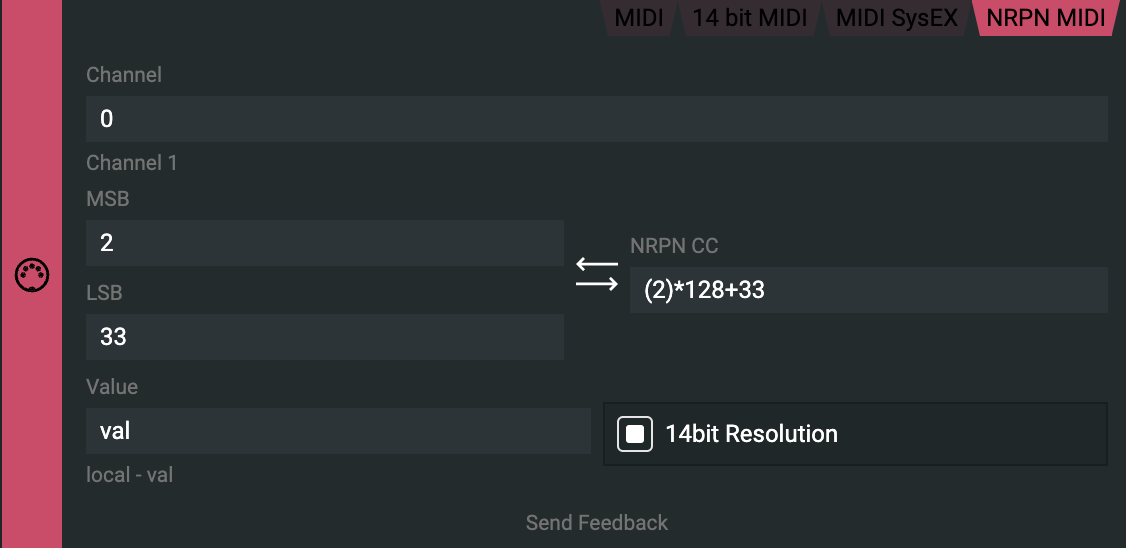
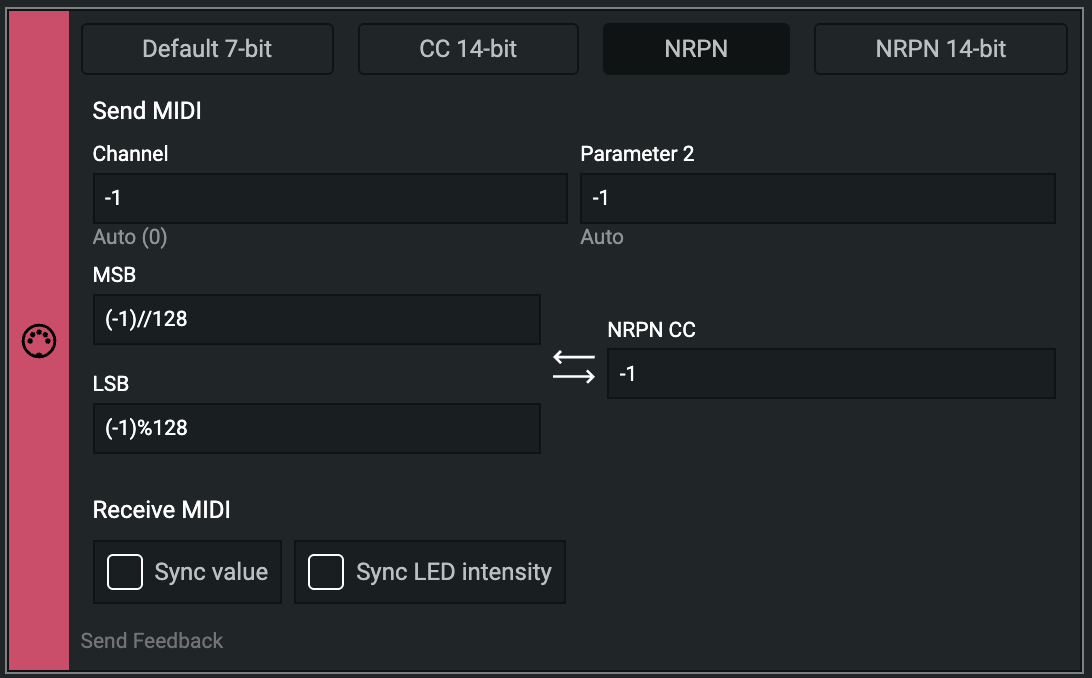
midi update

Changed region(s): [[0.0, 0.0, 0.9963, 1.0], [0.5293, 0.3412, 0.5916, 0.3723]]

diff --git a/docs/wiki/actions/midi/midirx.md b/docs/wiki/actions/midi/midirx.md
@@ -1,0 +1,60 @@
+---
+slug: midi-rx
+title: MIDI RX (receiving)
+tags: [Action Block, MIDI]
+description: "This Action Block will send out an NRPN MIDI message to the host on an event trigger. NRPN allows precise control over devices via MIDI."
+---
+
+import ImageLightbox from '@site/src/general-layout-components/ImageLightbox';
+import nrpnBlock from './img/receive.png'
+import element14Bit from './img/element_14bit.png'
+import rx from './img/rx.png'
+import relative from './img/relative.png'
+import intensity from './img/intensity.png'
+import Tabs from '@theme/Tabs';
+import TabItem from '@theme/TabItem';
+
+---
+
+
+
+<Tabs queryString="tab">
+<TabItem value="About NRPN MIDI" label="About NRPN MIDI" default>
+
+## Description
+**MIDI RX (MIDI Receive)** allows your controller to react to incoming MIDI messages from software or hardware. It can update LEDs and control elements in real time, keeping your controller synchronized with your setup.
+
+### Parameters
+
+
+The MIDI Block includes an LED and element value sync feature. If your DAW or hardware sends back the same MIDI message that the element transmits, the controller automatically keeps the LED state and element value synchronized.
+
+<ImageLightbox imageSrc={nrpnBlock} style={{width:500+'px'}} citation={'MIDI block receive checkbox'}/>
+
+### Tips for Using MIDI Sync
+
+* **Absolute Mode**: Sync both the element value and LED intensity.
+* **Relative Mode**: Sync the LED intensity and disable **Auto Intensity Update** in Simple Color.
+* **Button (Toggle) Mode**: Usually, only LED intensity sync is required.
+* **Button (Momentary) Mode**: Sync both the element value and LED intensity, and disable **Auto Intensity Update** in Simple Color.
+
+**Relative Mode Example:**
+<ImageLightbox imageSrc={relative} style={{width:300+'px'}} citation={'Encoder mode: Relative.'}/>
+<ImageLightbox imageSrc={intensity} style={{width:300+'px'}} citation={'Simple Color block: turn off auto intensity.'}/>
+<ImageLightbox imageSrc={rx} style={{width:300+'px'}} citation={'Receve MIDI: Sync LED intensity'}/>
+
+
+
+
+
+</TabItem>
+<TabItem value="Reference Manual Entry" label="Reference Manual Entry">
+
+self:midirx_register(-1, ch, command, param1, { value_sync = true/false, led_sync = true/false }, 0)
+-- value_sync: enables value synchronization
+-- led_sync: enables LED synchronization  
+  
+
+
+</TabItem>
+</Tabs>

diff --git a/docs/wiki/actions/midi/midi14.md b/docs/wiki/actions/midi/midi14.md
@@ -8,6 +8,7 @@ description: "This Action Block will send out a MIDI message to the host on an E
 import ImageLightbox from '@site/src/general-layout-components/ImageLightbox';
 import Tabs from '@theme/Tabs';
 import TabItem from '@theme/TabItem';
+import element14Bit from './img/element_14bit.png'
 
 ---
 
@@ -16,10 +17,15 @@ import TabItem from '@theme/TabItem';
 
 ### 14 bit MIDI - High resolution MIDI message format.
 
-To use this feature, **you must change the control element's resolution and maximum possible value**.
-This can be done by dropping a Potmeter Mode action block under the Setup event.
+Please note, as the least significant bit (LSB) and most significant bit (MSB) calculations happen in the background with a CC offset of 32, the second parameter CC number can't be larger than 95.
 
-Due to the noisy nature of high resolution signal reads from control elements, we recommend to stay below 11-bit resolution.
+![14bit midi](../../img/midi_action_14bit.png)
+
+To use this feature, **you must change the control element's resolution and maximum value (16383)**.
+
+<ImageLightbox imageSrc={element14Bit} style={{width:600+'px'}} citation={'On System Event Element settings changed max Value to 14bit and Resolution to 10bit'}/>
+
+Potmeter element: Due to the noisy nature of high resolution signal reads from control elements, we recommend to stay below 11-bit resolution.
 
 - 7-bit resolution (base MIDI): 2^7 = 128
 - 8-bit resolution: 2^8 = 256
@@ -27,10 +33,7 @@ Due to the noisy nature of high resolution signal reads from control elements, w
 - 10-bit resolution: 2^10 = 1024
 - 11-bit resolution: 2^11 = 2048
 - 12-bit resolution: 2^12 = 4096
-
-Please note, as the least significant bit (LSB) and most significant bit (MSB) calculations happen in the background with a CC offset of 32, the second parameter CC number can't be larger than 95.
-
-![14bit midi](../../img/midi_action_14bit.png)
+  
 
   </TabItem>
   <TabItem value="Reference Manual Entry" label="Reference Manual Entry">

diff --git a/docs/wiki/actions/midi/midi.md b/docs/wiki/actions/midi/midi.md
@@ -25,24 +25,24 @@ value range: 0-15
 This is translated in your DAW as channels 1-16.
 2. Command 
 value range: 128-255 
-Most common command messages are: 
--- 192 - program change 
---- 176 - control change 
---- 144 - note-on 
---- 128 - note-off 
+Most common command messages are:  
+- 192 - program change   
+- 176 - control change  
+- 144 - note-on  
+- 128 - note-off  
 The control change command is often used by audio libraries and VST plugins. When the command parameter is set to control change, the Parameter 1 field can be used to set common Control Change (CC) values, like 1 for modulation, 7 for volume and 11 for expression.
 
 3. Parameter 1 
 value range: 0-127 
 Depending on the Command field, values here represent Note (Pitch) or Control Change (CC) messages. 
---- Command = 176, CC values 
---- Command = 144 or 128, Note values
+- Command = 176, CC values   
+- Command = 144 or 128, Note values  
 
 4. Parameter 2
 value range: 0-127 
 Depending on the Command field, values here represent Velocity or Control Value (CV) values. 
---- Command = 176, CV values
---- Command = 144 or 128, Velocity values
+- Command = 176, CV values  
+- Command = 144 or 128, Velocity values  
 
 If you want to learn how to set up a Grid configuration for hardware MIDI devices, please check out the [Advanced Guide](/docs/guides/grid/grid-adv/advanced.md) in the guides section.
 

diff --git a/docs/wiki/actions/midi/nrpn.md b/docs/wiki/actions/midi/nrpn.md
@@ -30,12 +30,11 @@ This flexibility exists because manufacturers generally describe one of these me
 
 <ImageLightbox imageSrc={nrpnBlock} style={{width:600+'px'}} citation={'NRPN MIDI block'}/>
 
-To use this feature, **you must change the control element's resolution and maximum possible value**.
-This can be done by dropping an Action Block under the Setup event.
+For the 14bit NRPN, you must cahnge the control element's max value (16383).
 
 <ImageLightbox imageSrc={element14Bit} style={{width:600+'px'}} citation={'On System Event Element settings changed max Value to 14bit and Resolution to 10bit'}/>
 
-Due to the noisy nature of high resolution signal reads from control elements, we recommend to stay below 11-bit resolution.
+Potmeter element: Due to the noisy nature of high resolution signal reads from control elements, we recommend to stay below 11-bit resolution.
 
 - 7-bit resolution (base MIDI): 2^7 = 128
 - 8-bit resolution: 2^8 = 256